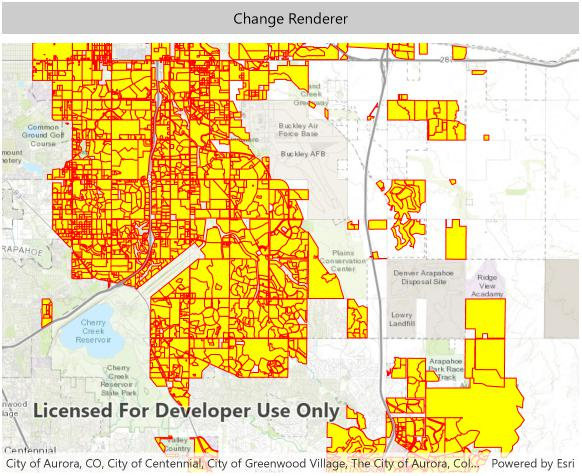
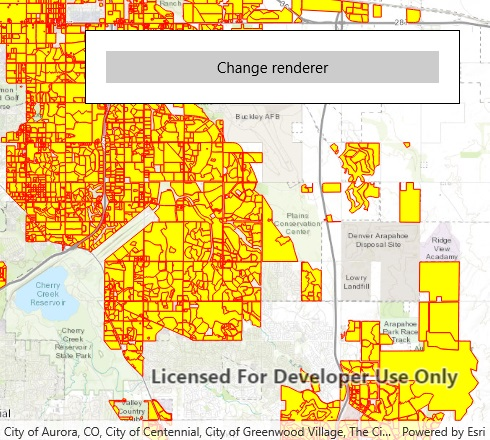
Symbolize shapefile
Improvements:

* Moved controls to form.
* Reformated XAML.

diff --git a/src/UWP/ArcGISRuntime.UWP.Viewer/Samples/Data/SymbolizeShapefile/SymbolizeShapefile.xaml b/src/UWP/ArcGISRuntime.UWP.Viewer/Samples/Data/SymbolizeShapefile/SymbolizeShapefile.xaml
@@ -1,18 +1,18 @@
 <UserControl
     x:Class="ArcGISRuntime.UWP.Samples.SymbolizeShapefile.SymbolizeShapefile"
     xmlns="http://schemas.microsoft.com/winfx/2006/xaml/presentation"
-    xmlns:d="http://schemas.microsoft.com/expression/blend/2008"
     xmlns:x="http://schemas.microsoft.com/winfx/2006/xaml"
-    xmlns:mc="http://schemas.openxmlformats.org/markup-compatibility/2006"
-    xmlns:esriUI="using:Esri.ArcGISRuntime.UI.Controls"
-    mc:Ignorable="d"
-    d:DesignHeight="300" d:DesignWidth="300">
+    xmlns:esriUI="using:Esri.ArcGISRuntime.UI.Controls">
     <Grid>
-        <Grid.RowDefinitions>
-            <RowDefinition Height="50" />
-            <RowDefinition Height="*" />
-        </Grid.RowDefinitions>
-        <Button Content="Change Renderer" Click="Button_Click" IsEnabled="False" x:Name="MyRendererButton" Grid.Row="0" HorizontalAlignment="Stretch" />
-        <esriUI:MapView x:Name="MyMapView" Grid.Row="1" />
+        <esriUI:MapView x:Name="MyMapView" />
+        <Border BorderBrush="Black" BorderThickness="1" Background="White"
+                HorizontalAlignment="Right" VerticalAlignment="Top"
+                Margin="30" Padding="20" Width="375">
+            <Button x:Name="MyRendererButton"
+                    Content="Change renderer"
+                    IsEnabled="False"
+                    HorizontalAlignment="Stretch"
+                    Click="Button_Click" />
+        </Border>
     </Grid>
 </UserControl>
